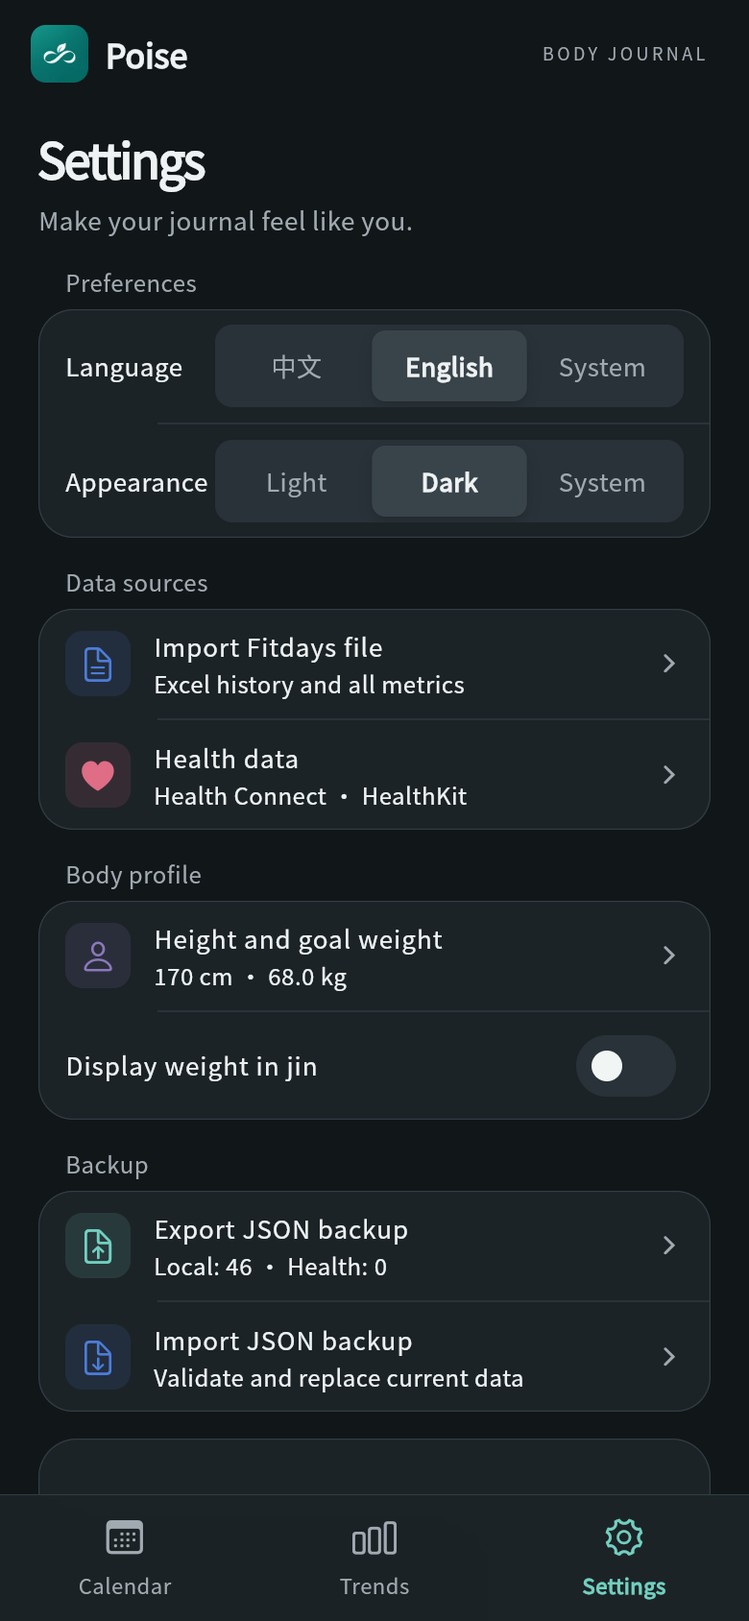
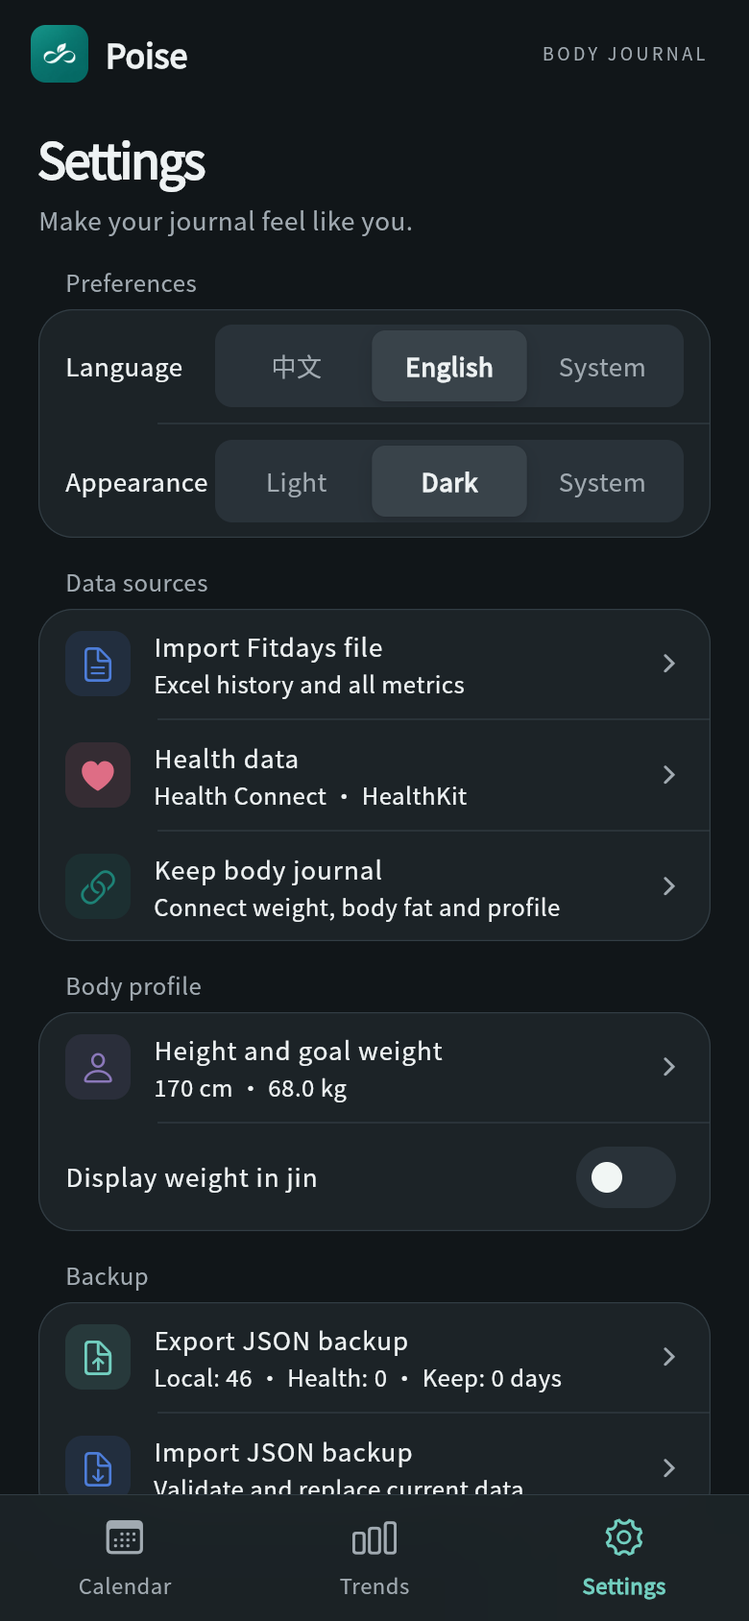
Update both download sites and bilingual docs for Poise 0.8.0

diff --git a/website/app.js b/website/app.js
@@ -1,5 +1,5 @@
-const zh={brandSub:'轻衡',navFeatures:'为什么是轻衡',navScreens:'界面一览',navDownload:'下载',navGet:'获取 Poise <span>↓</span>',eyebrow:'一份简单、私密的身体记录',heroTitle:'每一次改变，<br>都值得被看见。',heroDescription:'从今天的体重，到一段时间的趋势。<br>用轻衡，慢慢读懂自己的身体。',heroGet:'下载 Android 版',heroSource:'查看源码 <span>↗</span>',heroNote:'本机保存',heroNote2:'中英双语',heroNote3:'深浅两色',floatTitle:'变化，自有节奏。',floatSub:'看趋势，也接纳日常波动。',demo:'界面展示均为虚构演示数据',stripTitle:'你的记录，在这里汇合',featureKicker:'少一点繁琐，多一点清晰',featureTitle:'把关注，留给自己。',featureLead:'不需要复杂的仪表盘。<br>日常记录、长期变化，各有恰好的位置。',featureLink:'看看轻衡的样子 <span>↗</span>',f1Title:'一眼看清每一天',f1Body:'体重留在日历上，体脂率、BMI 和完整测量藏在每日卡片里。同日多次记录，左右轻滑切换。',f2Title:'让变化连成趋势',f2Body:'查看体重、体脂及导入指标的长期曲线。切换时间范围，对照目标，也看见真实的日常起伏。',f3Title:'让已有记录接着走',f3Body:'连接系统健康数据，打开 App 自动同步。也可以导入 Fitdays 表格，保留原始字段与历史测量。',screensKicker:'熟悉、轻盈、顺手',screensTitle:'简单，刚刚好。',light:'浅色',dark:'深色',screen1:'身体日历',screen1Sub:'把每一天，放回时间里。',screen2:'变化趋势',screen2Sub:'少看一次波动，多看一段变化。',screen3:'个人设置',screen3Sub:'让记录，更适合你的日常。',privacyKicker:'身体数据，留在自己手里',privacyTitle:'关心身体，也关心隐私。',privacyBody:'健康记录保存在当前设备，App 不上传你的测量数据。系统健康接入仅读取，不修改原始记录。需要备份时，你可以自行导出 JSON。',downloadKicker:'开始你的下一次记录',downloadTitle:'轻一点，开始就好。',downloadLead:'下载轻衡，让变化慢慢变得清晰。',latest:'最新版本',githubGet:'GitHub 下载',apkLabel:'Android 通用安装包 · APK',mirrorGet:'小飞机网盘下载',mirrorPending:'分享链接准备中',mirrorReady:'国内网盘备用入口',installNote:'可覆盖安装旧版轻衡，保留原有数据。当前安装包使用测试签名。',releaseNotes:'查看更新说明 ↗',checksum:'复制 SHA-256 校验值',iosNote:'源码已支持 HealthKit，尚未发布可安装的 iOS 版本。',faqKicker:'开始之前',faqTitle:'你可能想知道。',q1:'没有智能秤，也能使用吗？',a1:'可以。你可以手动记录体重、体脂率与备注，也可以导入 Fitdays 导出的 .xlsx 历史记录。',q2:'自动同步需要怎么开启？',a2:'首次进入“设置 → 健康数据”，点击“授权并读取”完成连接。之后打开或回到 App 时会自动同步，可随时关闭。Android 当前最多读取近 30 天，且需要其他 App 已向系统写入记录。',q3:'换手机之前，需要做什么？',a3:'请先在设置中导出 JSON 备份并妥善保存，再在新设备导入。卸载 App 或清理数据可能导致本地记录丢失。',q4:'这些指标能作为医疗判断吗？',a4:'Poise 用于个人记录和趋势观察。体脂率来自测量或手动填写，BMI 按当前身高计算，均不用于医疗诊断。',footer:'记录变化，从容向前。'};
-const en={brandSub:'Body journal',navFeatures:'Why Poise',navScreens:'A closer look',navDownload:'Download',navGet:'Get Poise <span>↓</span>',eyebrow:'A SIMPLE, PRIVATE BODY JOURNAL',heroTitle:'Every small change.<br>Clearly seen.',heroDescription:'From today’s weight to your longer journey.<br>Get to know your body, one entry at a time.',heroGet:'Download for Android',heroSource:'View source <span>↗</span>',heroNote:'Stored on device',heroNote2:'English & Chinese',heroNote3:'Light & dark',floatTitle:'Progress has its own pace.',floatSub:'See the trend. Embrace the everyday.',demo:'Screens show fictional demo measurements',stripTitle:'Bring your measurements together',featureKicker:'LESS FRICTION. MORE CLARITY.',featureTitle:'Make room for yourself.',featureLead:'No complicated dashboard needed.<br>Your daily entries and the bigger picture, each in their place.',featureLink:'Take a closer look <span>↗</span>',f1Title:'A clear view of every day',f1Body:'Weight on your calendar. Body fat, BMI and full measurements in your daily card. Swipe through multiple entries without losing your place.',f2Title:'See a trend, not just a number',f2Body:'Follow weight, body fat and imported metrics over time. Choose a range, compare with your goal and make sense of daily fluctuations.',f3Title:'Let your history carry on',f3Body:'Connect system health data and sync when you open the app. Or import a Fitdays spreadsheet, keeping original fields and past measurements.',screensKicker:'FAMILIAR. LIGHT. CONSIDERED.',screensTitle:'Simply enough.',light:'Light',dark:'Dark',screen1:'Body calendar',screen1Sub:'Give every day its place.',screen2:'Trends',screen2Sub:'Less noise. A little more perspective.',screen3:'Your settings',screen3Sub:'A journal that fits your everyday.',privacyKicker:'YOUR BODY DATA, IN YOUR HANDS',privacyTitle:'Care for your body. And your privacy.',privacyBody:'Health records stay on this device. The app does not upload your measurements. System health access is read-only, leaving original records untouched. Export your own JSON backup when you need it.',downloadKicker:'YOUR NEXT ENTRY STARTS HERE',downloadTitle:'A lighter way to begin.',downloadLead:'Get Poise. Let the bigger picture take shape.',latest:'Latest',githubGet:'Download from GitHub',apkLabel:'Universal Android installer · APK',mirrorGet:'Feejii cloud download',mirrorPending:'Share link being prepared',mirrorReady:'Alternative cloud download',installNote:'Update previous Qingheng builds without uninstalling to keep your records. This installer uses a test signature.',releaseNotes:'Release notes ↗',checksum:'Copy SHA-256 checksum',iosNote:'HealthKit is supported in the source. An installable iOS version is not yet available.',faqKicker:'BEFORE YOU BEGIN',faqTitle:'A few things to know.',q1:'Can I use Poise without a smart scale?',a1:'Yes. Enter weight, body fat and notes manually, or import your history from a Fitdays .xlsx export.',q2:'How do I turn on automatic sync?',a2:'Open Settings → Health data and tap Authorize and read once. Connected data then syncs when you open or return to the app. Turn it off at any time. Android currently reads up to the last 30 days; another app must have written measurements to the system.',q3:'What should I do before switching phones?',a3:'Export a JSON backup in Settings and keep it safe, then import it on your new device. Uninstalling the app or clearing its data may erase local records.',q4:'Can these metrics be used for medical decisions?',a4:'Poise is for personal tracking and observing trends. Body fat comes from measurements or manual entries. BMI uses your current height. None of these are intended for medical diagnosis.',footer:'Notice the change. Move at your own pace.'};
+const zh={brandSub:'轻衡',navFeatures:'为什么是轻衡',navScreens:'界面一览',navDownload:'下载',navGet:'获取 Poise <span>↓</span>',eyebrow:'一份简单、私密的身体记录',heroTitle:'每一次改变，<br>都值得被看见。',heroDescription:'从今天的体重，到一段时间的趋势。<br>用轻衡，慢慢读懂自己的身体。',heroGet:'下载 Android 版',heroSource:'查看源码 <span>↗</span>',heroNote:'本机保存',heroNote2:'中英双语',heroNote3:'深浅两色',floatTitle:'变化，自有节奏。',floatSub:'看趋势，也接纳日常波动。',demo:'界面展示均为虚构演示数据',stripTitle:'你的记录，在这里汇合',featureKicker:'少一点繁琐，多一点清晰',featureTitle:'把关注，留给自己。',featureLead:'不需要复杂的仪表盘。<br>日常记录、长期变化，各有恰好的位置。',featureLink:'看看轻衡的样子 <span>↗</span>',f1Title:'一眼看清每一天',f1Body:'体重留在日历上，体脂率、BMI 和完整测量藏在每日卡片里。同日多次记录，左右轻滑切换。',f2Title:'让变化连成趋势',f2Body:'查看体重、体脂及导入指标的长期曲线。切换时间范围，对照目标，也看见真实的日常起伏。',f3Title:'让已有记录接着走',f3Body:'连接 Health Connect / HealthKit，打开 App 自动同步。也可以授权 Keep，预览后导入日期级体重和体脂；支持 Fitdays 表格导入。',screensKicker:'熟悉、轻盈、顺手',screensTitle:'简单，刚刚好。',light:'浅色',dark:'深色',screen1:'身体日历',screen1Sub:'把每一天，放回时间里。',screen2:'变化趋势',screen2Sub:'少看一次波动，多看一段变化。',screen3:'个人设置',screen3Sub:'让记录，更适合你的日常。',privacyKicker:'身体数据，留在自己手里',privacyTitle:'关心身体，也关心隐私。',privacyBody:'导入的健康记录保存在当前设备。系统健康接入仅读取；Keep 授权和查询直接连接 Keep 服务，不修改原始记录。登录凭据使用设备安全存储，不进入 JSON 备份。',downloadKicker:'开始你的下一次记录',downloadTitle:'轻一点，开始就好。',downloadLead:'下载轻衡，让变化慢慢变得清晰。',latest:'最新版本',githubGet:'GitHub 下载',apkLabel:'Android 通用安装包 · APK',mirrorGet:'小飞机网盘下载',mirrorPending:'分享链接准备中',mirrorReady:'国内网盘备用入口',installNote:'可覆盖安装旧版轻衡，保留原有数据。当前安装包使用测试签名。',releaseNotes:'查看更新说明 ↗',checksum:'复制 SHA-256 校验值',iosNote:'源码已支持 HealthKit，尚未发布可安装的 iOS 版本。',faqKicker:'开始之前',faqTitle:'你可能想知道。',q1:'没有智能秤，也能使用吗？',a1:'可以。你可以手动记录体重、体脂率与备注，也可以导入 Fitdays 导出的 .xlsx 历史记录。',q2:'自动同步需要怎么开启？',a2:'首次进入“设置 → 健康数据”，点击“授权并读取”完成连接。之后打开或回到 App 时会自动同步，可随时关闭。Android 当前最多读取近 30 天，且需要其他 App 已向系统写入记录。',q3:'换手机之前，需要做什么？',a3:'请先在设置中导出 JSON 备份并妥善保存，再在新设备导入。卸载 App 或清理数据可能导致本地记录丢失。',q4:'这些指标能作为医疗判断吗？',a4:'Poise 用于个人记录和趋势观察。体脂率来自测量或手动填写，BMI 按当前身高计算，均不用于医疗诊断。',q5:'如何导入 Keep 记录？',a5:'进入“设置 → Keep 身体记录”，授权连接后选择时间范围，读取并确认导入。最新身高可选导入；Keep BMI 单独预览。缺少测量时间时显示“仅日期”。当前 Keep 需手动预览导入，不自动同步；Android / iOS 原生 App 支持，网页版不支持连接。',footer:'记录变化，从容向前。'};
+const en={brandSub:'Body journal',navFeatures:'Why Poise',navScreens:'A closer look',navDownload:'Download',navGet:'Get Poise <span>↓</span>',eyebrow:'A SIMPLE, PRIVATE BODY JOURNAL',heroTitle:'Every small change.<br>Clearly seen.',heroDescription:'From today’s weight to your longer journey.<br>Get to know your body, one entry at a time.',heroGet:'Download for Android',heroSource:'View source <span>↗</span>',heroNote:'Stored on device',heroNote2:'English & Chinese',heroNote3:'Light & dark',floatTitle:'Progress has its own pace.',floatSub:'See the trend. Embrace the everyday.',demo:'Screens show fictional demo measurements',stripTitle:'Bring your measurements together',featureKicker:'LESS FRICTION. MORE CLARITY.',featureTitle:'Make room for yourself.',featureLead:'No complicated dashboard needed.<br>Your daily entries and the bigger picture, each in their place.',featureLink:'Take a closer look <span>↗</span>',f1Title:'A clear view of every day',f1Body:'Weight on your calendar. Body fat, BMI and full measurements in your daily card. Swipe through multiple entries without losing your place.',f2Title:'See a trend, not just a number',f2Body:'Follow weight, body fat and imported metrics over time. Choose a range, compare with your goal and make sense of daily fluctuations.',f3Title:'Let your history carry on',f3Body:'Connect Health Connect / HealthKit for sync on opening. Or authorize Keep, review and import daily weight and body fat. Fitdays spreadsheets are supported too.',screensKicker:'FAMILIAR. LIGHT. CONSIDERED.',screensTitle:'Simply enough.',light:'Light',dark:'Dark',screen1:'Body calendar',screen1Sub:'Give every day its place.',screen2:'Trends',screen2Sub:'Less noise. A little more perspective.',screen3:'Your settings',screen3Sub:'A journal that fits your everyday.',privacyKicker:'YOUR BODY DATA, IN YOUR HANDS',privacyTitle:'Care for your body. And your privacy.',privacyBody:'Imported health records stay on this device. System health access is read-only. Keep authorization and queries connect directly to Keep without changing original records. Login credentials use device secure storage and are excluded from JSON backups.',downloadKicker:'YOUR NEXT ENTRY STARTS HERE',downloadTitle:'A lighter way to begin.',downloadLead:'Get Poise. Let the bigger picture take shape.',latest:'Latest',githubGet:'Download from GitHub',apkLabel:'Universal Android installer · APK',mirrorGet:'Feejii cloud download',mirrorPending:'Share link being prepared',mirrorReady:'Alternative cloud download',installNote:'Update previous Qingheng builds without uninstalling to keep your records. This installer uses a test signature.',releaseNotes:'Release notes ↗',checksum:'Copy SHA-256 checksum',iosNote:'HealthKit is supported in the source. An installable iOS version is not yet available.',faqKicker:'BEFORE YOU BEGIN',faqTitle:'A few things to know.',q1:'Can I use Poise without a smart scale?',a1:'Yes. Enter weight, body fat and notes manually, or import your history from a Fitdays .xlsx export.',q2:'How do I turn on automatic sync?',a2:'Open Settings → Health data and tap Authorize and read once. Connected data then syncs when you open or return to the app. Turn it off at any time. Android currently reads up to the last 30 days; another app must have written measurements to the system.',q3:'What should I do before switching phones?',a3:'Export a JSON backup in Settings and keep it safe, then import it on your new device. Uninstalling the app or clearing its data may erase local records.',q4:'Can these metrics be used for medical decisions?',a4:'Poise is for personal tracking and observing trends. Body fat comes from measurements or manual entries. BMI uses your current height. None of these are intended for medical diagnosis.',q5:'How do I import Keep records?',a5:'Open Settings → Keep body journal, authorize, choose a range, then read, review and confirm. Latest height is optional; Keep BMI is previewed separately. Values without a measurement time are marked Date only. Keep import is manual in this version and is available in native Android / iOS apps, not Web.',footer:'Notice the change. Move at your own pace.'};
 let lang='zh',mode='light',release=null,toastTimer;
 try{lang=localStorage.getItem('poise-site-language')==='en'?'en':'zh';}catch{}
 function shot(page){return `assets/${page}${lang==='en'?'-en':''}${mode==='dark'?'-dark':''}.png`;}

diff --git a/website/index.html b/website/index.html
@@ -2,7 +2,7 @@
 <html lang="zh-CN">
 <head>
 <meta charset="utf-8"><meta name="viewport" content="width=device-width,initial-scale=1">
-<meta name="theme-color" content="#f6f8f6"><meta name="description" content="Poise 轻衡，让身体变化清晰可见。体重、体脂趋势、健康数据同步与 Fitdays 导入。下载 Android 安装包。">
+<meta name="theme-color" content="#f6f8f6"><meta name="description" content="Poise 轻衡，让身体变化清晰可见。体重、体脂趋势、健康数据同步、Keep 身体记录与 Fitdays 导入。下载 Android 安装包。">
 <link rel="canonical" href="https://wang161113.github.io/Poise/">
 <meta property="og:url" content="https://wang161113.github.io/Poise/">
 <meta property="og:title" content="Poise · 轻衡"><meta property="og:description" content="记下每一天，看见慢慢变好的自己。"><meta property="og:image" content="https://wang161113.github.io/Poise/assets/poise.png">
@@ -24,18 +24,18 @@
 </div>
 <div class="hero-visual"><div class="orb"></div><span class="orbit-text" aria-hidden="true">SMALL STEPS. VISIBLE CHANGE.</span><div class="phone hero-phone"><img id="heroShot" src="assets/calendar.png" alt="Poise 日历界面，展示虚构演示数据" width="780" height="1688"></div><div class="floating-note"><span class="note-icon">↗</span><div><strong data-t="floatTitle">变化，自有节奏。</strong><small data-t="floatSub">看趋势，也接纳日常波动。</small></div></div><div class="demo-note" data-t="demo">界面展示均为虚构演示数据</div></div>
 </section>
-<div class="support-strip shell"><span data-t="stripTitle">你的记录，在这里汇合</span><div>Health Connect <span class="dot">/</span> HealthKit <span class="dot">/</span> Fitdays <span class="dot">/</span> Excel</div></div>
+<div class="support-strip shell"><span data-t="stripTitle">你的记录，在这里汇合</span><div>Health Connect <span class="dot">/</span> HealthKit <span class="dot">/</span> Keep <span class="dot">/</span> Fitdays</div></div>
 <section class="features shell section" id="features"><div class="section-heading"><span class="kicker" data-t="featureKicker">少一点繁琐，多一点清晰</span><h2 data-t="featureTitle">把关注，留给自己。</h2><p data-t="featureLead">不需要复杂的仪表盘。<br>日常记录、长期变化，各有恰好的位置。</p><a class="text-link" href="#screens" data-t="featureLink">看看轻衡的样子 <span>↗</span></a></div>
 <div class="feature-list">
 <article><span class="feature-number">01</span><div><h3 data-t="f1Title">一眼看清每一天</h3><p data-t="f1Body">体重留在日历上，体脂率、BMI 和完整测量藏在每日卡片里。同日多次记录，左右轻滑切换。</p></div><span class="feature-sign" aria-hidden="true">▦</span></article>
 <article><span class="feature-number">02</span><div><h3 data-t="f2Title">让变化连成趋势</h3><p data-t="f2Body">查看体重、体脂及导入指标的长期曲线。切换时间范围，对照目标，也看见真实的日常起伏。</p></div><span class="feature-sign" aria-hidden="true">⌁</span></article>
-<article><span class="feature-number">03</span><div><h3 data-t="f3Title">让已有记录接着走</h3><p data-t="f3Body">连接系统健康数据，打开 App 自动同步。也可以导入 Fitdays 表格，保留原始字段与历史测量。</p></div><span class="feature-sign" aria-hidden="true">⇄</span></article>
+<article><span class="feature-number">03</span><div><h3 data-t="f3Title">让已有记录接着走</h3><p data-t="f3Body">连接 Health Connect / HealthKit，打开 App 自动同步。也可以授权 Keep，预览后导入日期级体重和体脂；支持 Fitdays 表格导入。</p></div><span class="feature-sign" aria-hidden="true">⇄</span></article>
 </div></section>
 <section class="screens-section" id="screens"><div class="shell section"><div class="screens-heading"><div><span class="kicker" data-t="screensKicker">熟悉、轻盈、顺手</span><h2 data-t="screensTitle">简单，刚刚好。</h2></div><div class="mode-switch" aria-label="Screenshot appearance"><button class="selected" data-mode="light" aria-pressed="true" data-t="light">浅色</button><button data-mode="dark" aria-pressed="false" data-t="dark">深色</button></div></div>
 <div class="screen-grid"><figure><div class="screen-frame"><img data-shot="calendar" src="assets/calendar.png" width="780" height="1688" loading="lazy" alt="Calendar screenshot"></div><figcaption><span>01</span><strong data-t="screen1">身体日历</strong><small data-t="screen1Sub">把每一天，放回时间里。</small></figcaption></figure><figure><div class="screen-frame"><img data-shot="trend" src="assets/trend.png" width="780" height="1688" loading="lazy" alt="Trends screenshot"></div><figcaption><span>02</span><strong data-t="screen2">变化趋势</strong><small data-t="screen2Sub">少看一次波动，多看一段变化。</small></figcaption></figure><figure><div class="screen-frame"><img data-shot="settings" src="assets/settings.png" width="780" height="1688" loading="lazy" alt="Settings screenshot"></div><figcaption><span>03</span><strong data-t="screen3">个人设置</strong><small data-t="screen3Sub">让记录，更适合你的日常。</small></figcaption></figure></div><p class="screens-caption" data-t="demo">界面展示均为虚构演示数据</p></div></section>
-<section class="privacy shell section"><div class="privacy-symbol" aria-hidden="true"><svg viewBox="0 0 80 80" fill="none"><path d="M40 9 65 19v21c0 15-12 25-25 32C27 65 15 55 15 40V19L40 9Z" stroke="currentColor" stroke-width="2"/><rect x="29" y="34" width="22" height="20" rx="5" stroke="currentColor" stroke-width="2"/><path d="M33 34v-7a7 7 0 0 1 14 0v7" stroke="currentColor" stroke-width="2"/></svg></div><div><span class="kicker" data-t="privacyKicker">身体数据，留在自己手里</span><h2 data-t="privacyTitle">关心身体，也关心隐私。</h2><p data-t="privacyBody">健康记录保存在当前设备，App 不上传你的测量数据。系统健康接入仅读取，不修改原始记录。需要备份时，你可以自行导出 JSON。</p></div></section>
-<section class="download-section" id="download"><div class="shell section"><div class="download-intro"><span class="kicker" data-t="downloadKicker">开始你的下一次记录</span><h2 data-t="downloadTitle">轻一点，开始就好。</h2><p data-t="downloadLead">下载轻衡，让变化慢慢变得清晰。</p></div><div class="download-card"><div class="app-release"><img src="assets/poise.png" width="76" height="76" alt="Poise app icon"><div><h3>Poise <span data-t="brandSub">轻衡</span></h3><p><span id="version">v0.7.1</span><span>Android 8.0+</span><span id="fileSize">64.1 MB</span></p></div><span class="release-badge" data-t="latest">最新版本</span></div><div class="download-options"><a id="githubDownload" class="button primary" href="https://github.com/wang161113/Poise/releases/download/v0.7.1/poise-0.7.1-universal.apk"><span><strong data-t="githubGet">GitHub 下载</strong><small data-t="apkLabel">Android 通用安装包 · APK</small></span><span aria-hidden="true">↓</span></a><a id="mirrorDownload" class="button mirror" href="https://share.feijipan.com/s/uSzw9t1b" target="_blank" rel="noopener"><span><strong data-t="mirrorGet">小飞机网盘下载</strong><small id="mirrorHint" data-t="mirrorReady">国内网盘备用入口</small></span><span aria-hidden="true">↗</span></a></div><p class="install-note" data-t="installNote">可覆盖安装旧版轻衡，保留原有数据。当前安装包使用测试签名。</p><div class="release-links"><a href="https://github.com/wang161113/Poise/releases/tag/v0.7.1" target="_blank" rel="noopener" data-t="releaseNotes">查看更新说明 ↗</a><button id="checksum" data-t="checksum">复制 SHA-256 校验值</button></div><p class="ios-note"><span>iOS</span><span data-t="iosNote">源码已支持 HealthKit，尚未发布可安装的 iOS 版本。</span></p></div></div></section>
-<section class="faq shell section"><div><span class="kicker" data-t="faqKicker">开始之前</span><h2 data-t="faqTitle">你可能想知道。</h2></div><div class="faq-list"><details><summary data-t="q1">没有智能秤，也能使用吗？</summary><p data-t="a1">可以。你可以手动记录体重、体脂率与备注，也可以导入 Fitdays 导出的 .xlsx 历史记录。</p></details><details><summary data-t="q2">自动同步需要怎么开启？</summary><p data-t="a2">首次进入“设置 → 健康数据”，点击“授权并读取”完成连接。之后打开或回到 App 时会自动同步，可随时关闭。Android 当前最多读取近 30 天，且需要其他 App 已向系统写入记录。</p></details><details><summary data-t="q3">换手机之前，需要做什么？</summary><p data-t="a3">请先在设置中导出 JSON 备份并妥善保存，再在新设备导入。卸载 App 或清理数据可能导致本地记录丢失。</p></details><details><summary data-t="q4">这些指标能作为医疗判断吗？</summary><p data-t="a4">Poise 用于个人记录和趋势观察。体脂率来自测量或手动填写，BMI 按当前身高计算，均不用于医疗诊断。</p></details></div></section>
+<section class="privacy shell section"><div class="privacy-symbol" aria-hidden="true"><svg viewBox="0 0 80 80" fill="none"><path d="M40 9 65 19v21c0 15-12 25-25 32C27 65 15 55 15 40V19L40 9Z" stroke="currentColor" stroke-width="2"/><rect x="29" y="34" width="22" height="20" rx="5" stroke="currentColor" stroke-width="2"/><path d="M33 34v-7a7 7 0 0 1 14 0v7" stroke="currentColor" stroke-width="2"/></svg></div><div><span class="kicker" data-t="privacyKicker">身体数据，留在自己手里</span><h2 data-t="privacyTitle">关心身体，也关心隐私。</h2><p data-t="privacyBody">导入的健康记录保存在当前设备。系统健康接入仅读取；Keep 授权和查询直接连接 Keep 服务，不修改原始记录。登录凭据使用设备安全存储，不进入 JSON 备份。</p></div></section>
+<section class="download-section" id="download"><div class="shell section"><div class="download-intro"><span class="kicker" data-t="downloadKicker">开始你的下一次记录</span><h2 data-t="downloadTitle">轻一点，开始就好。</h2><p data-t="downloadLead">下载轻衡，让变化慢慢变得清晰。</p></div><div class="download-card"><div class="app-release"><img src="assets/poise.png" width="76" height="76" alt="Poise app icon"><div><h3>Poise <span data-t="brandSub">轻衡</span></h3><p><span id="version">v0.8.0</span><span>Android 8.0+</span><span id="fileSize">65.8 MB</span></p></div><span class="release-badge" data-t="latest">最新版本</span></div><div class="download-options"><a id="githubDownload" class="button primary" href="https://github.com/wang161113/Poise/releases/download/v0.8.0/poise-0.8.0-universal.apk"><span><strong data-t="githubGet">GitHub 下载</strong><small data-t="apkLabel">Android 通用安装包 · APK</small></span><span aria-hidden="true">↓</span></a><a id="mirrorDownload" class="button mirror" href="https://share.feijipan.com/s/rkzwo9yr" target="_blank" rel="noopener"><span><strong data-t="mirrorGet">小飞机网盘下载</strong><small id="mirrorHint" data-t="mirrorReady">国内网盘备用入口</small></span><span aria-hidden="true">↗</span></a></div><p class="install-note" data-t="installNote">可覆盖安装旧版轻衡，保留原有数据。当前安装包使用测试签名。</p><div class="release-links"><a href="https://github.com/wang161113/Poise/releases/tag/v0.8.0" target="_blank" rel="noopener" data-t="releaseNotes">查看更新说明 ↗</a><button id="checksum" data-t="checksum">复制 SHA-256 校验值</button></div><p class="ios-note"><span>iOS</span><span data-t="iosNote">源码已支持 HealthKit，尚未发布可安装的 iOS 版本。</span></p></div></div></section>
+<section class="faq shell section"><div><span class="kicker" data-t="faqKicker">开始之前</span><h2 data-t="faqTitle">你可能想知道。</h2></div><div class="faq-list"><details><summary data-t="q1">没有智能秤，也能使用吗？</summary><p data-t="a1">可以。你可以手动记录体重、体脂率与备注，也可以导入 Fitdays 导出的 .xlsx 历史记录。</p></details><details><summary data-t="q2">自动同步需要怎么开启？</summary><p data-t="a2">首次进入“设置 → 健康数据”，点击“授权并读取”完成连接。之后打开或回到 App 时会自动同步，可随时关闭。Android 当前最多读取近 30 天，且需要其他 App 已向系统写入记录。</p></details><details><summary data-t="q5">如何导入 Keep 记录？</summary><p data-t="a5">进入“设置 → Keep 身体记录”，授权连接后选择时间范围，读取并确认导入。最新身高可选导入；Keep BMI 单独预览。缺少测量时间时显示“仅日期”。当前 Keep 需手动预览导入，不自动同步；Android / iOS 原生 App 支持，网页版不支持连接。</p></details><details><summary data-t="q3">换手机之前，需要做什么？</summary><p data-t="a3">请先在设置中导出 JSON 备份并妥善保存，再在新设备导入。卸载 App 或清理数据可能导致本地记录丢失。</p></details><details><summary data-t="q4">这些指标能作为医疗判断吗？</summary><p data-t="a4">Poise 用于个人记录和趋势观察。体脂率来自测量或手动填写，BMI 按当前身高计算，均不用于医疗诊断。</p></details></div></section>
 </main>
 <footer class="shell footer"><a href="#" class="brand"><img src="assets/poise.png" width="28" height="28" alt=""><span>Poise</span></a><p data-t="footer">记录变化，从容向前。</p><a href="https://github.com/wang161113/Poise" target="_blank" rel="noopener">GitHub ↗</a></footer>
 <div id="toast" role="status" aria-live="polite"></div><script src="app.js"></script>

diff --git a/README.md b/README.md
@@ -1,6 +1,6 @@
 # Poise · 轻衡
 
-[Website / 软件主页](https://wang161113.github.io/Poise/) · [Download Android APK / 下载安卓版](https://github.com/wang161113/Poise/releases/latest)
+[GitHub Pages](https://wang161113.github.io/Poise/) · [软件主页 / Website](https://poise.finnsoft.chatgpt.site/) · [Download Android APK / 下载安卓版](https://github.com/wang161113/Poise/releases/latest)
 
 Poise means balance and composure. A local-first Flutter body journal for Android, iOS and Web, with English and Chinese UI. Switch under **Settings → Language → 中文 / English / System**. Existing installations keep Chinese until you change the setting.
 
@@ -104,6 +104,8 @@ Health Connect / HealthKit 接入方式、权限和安装步骤见 [健康数据
 本地字体是 Noto Sans CJK SC 的子集，采用 SIL Open Font License，完整声明见 [字体许可](assets/fonts/LICENSE.txt)。
 
 ## Website / 软件站点
+
+Both download sites include the latest APK, Feejii mirror, checksum and bilingual Keep setup guide. 两个下载站均提供最新 APK、网盘下载、校验值和中英文 Keep 接入说明。
 
 站点源码位于 `website/`，使用静态 HTML/CSS/JavaScript，无需构建。`website/release.json` 保存版本号、APK 地址、网盘地址和校验值；更新后推送到 main，GitHub Actions 自动部署到 Pages。
 
